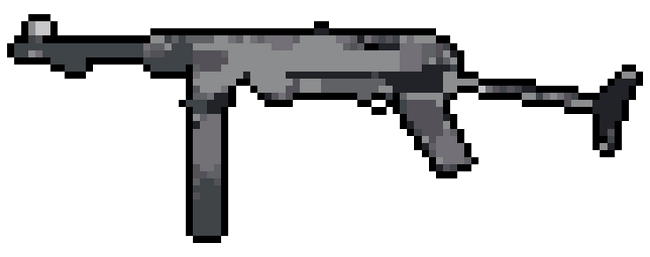
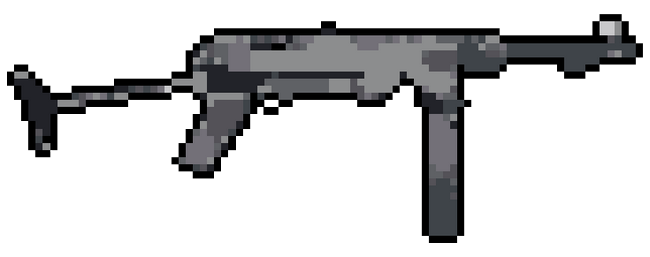
textures nettoyage V2

diff --git a/Source/Entity/Player.cpp b/Source/Entity/Player.cpp
@@ -2,7 +2,7 @@
 #include <iostream>
 
 Player::Player(std::string texturePath, float defaultLife, sf::Vector2f initPosition) : Entity(texturePath, defaultLife, initPosition) {
-	this->setWeapon(Arme("Time-Quest/Source/assets/mas36final2.png", 20));
+	this->setWeapon(Arme("Time-Quest/Source/assets/mas36.png", 20));
 
 	_lifeBar.setFillColor(sf::Color::Red);
 	_lifeBar.setOutlineColor(sf::Color::Magenta);

diff --git a/Source/Entity/NPC/Ennemy.cpp b/Source/Entity/NPC/Ennemy.cpp
@@ -1,7 +1,7 @@
 #include "Ennemy.h"
 
 Ennemy::Ennemy(std::string texturePath, float defaultLife, sf::Vector2f initPosition) : NPC(texturePath, defaultLife, initPosition) {
-	this->setWeapon(Arme("Time-Quest/Source/assets/mas38final.png", 5));
+	this->setWeapon(Arme("Time-Quest/Source/assets/mp40.png", 5));
 }
 
 Ennemy::~Ennemy() {
